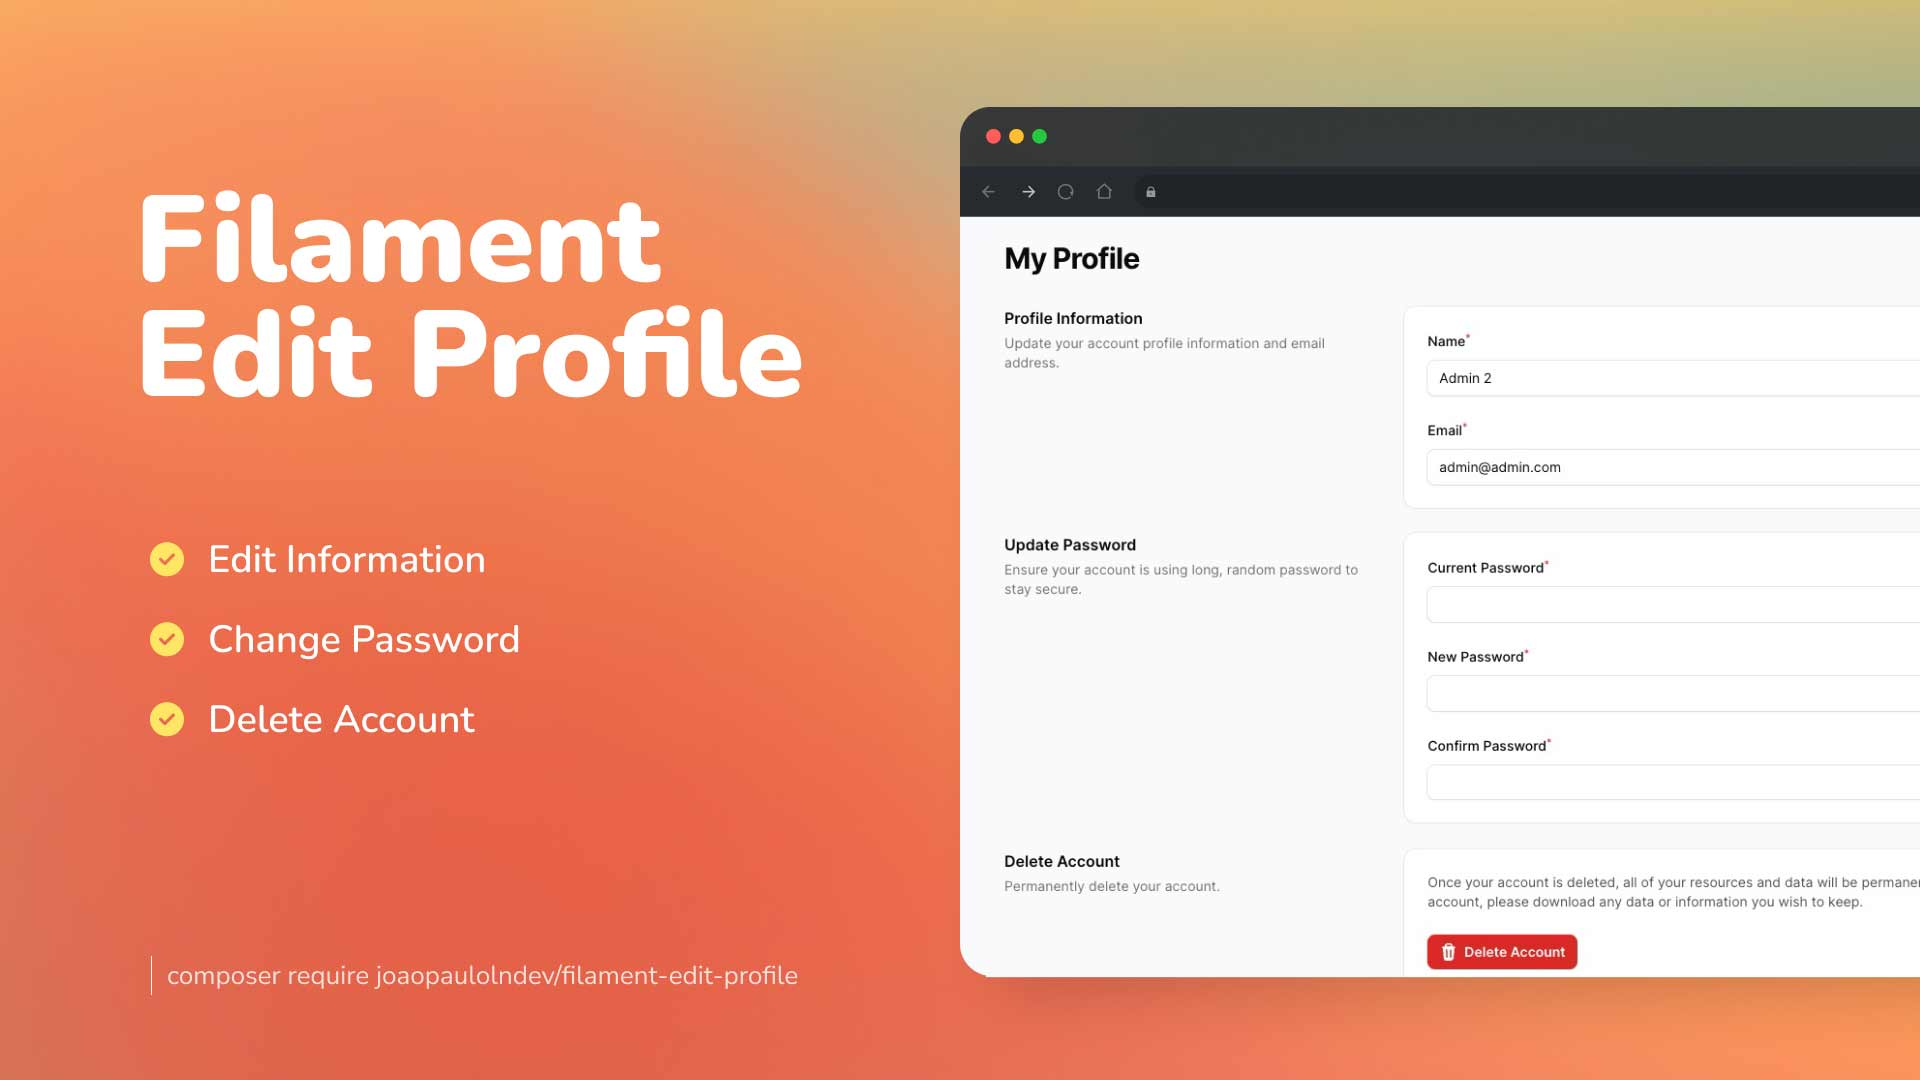
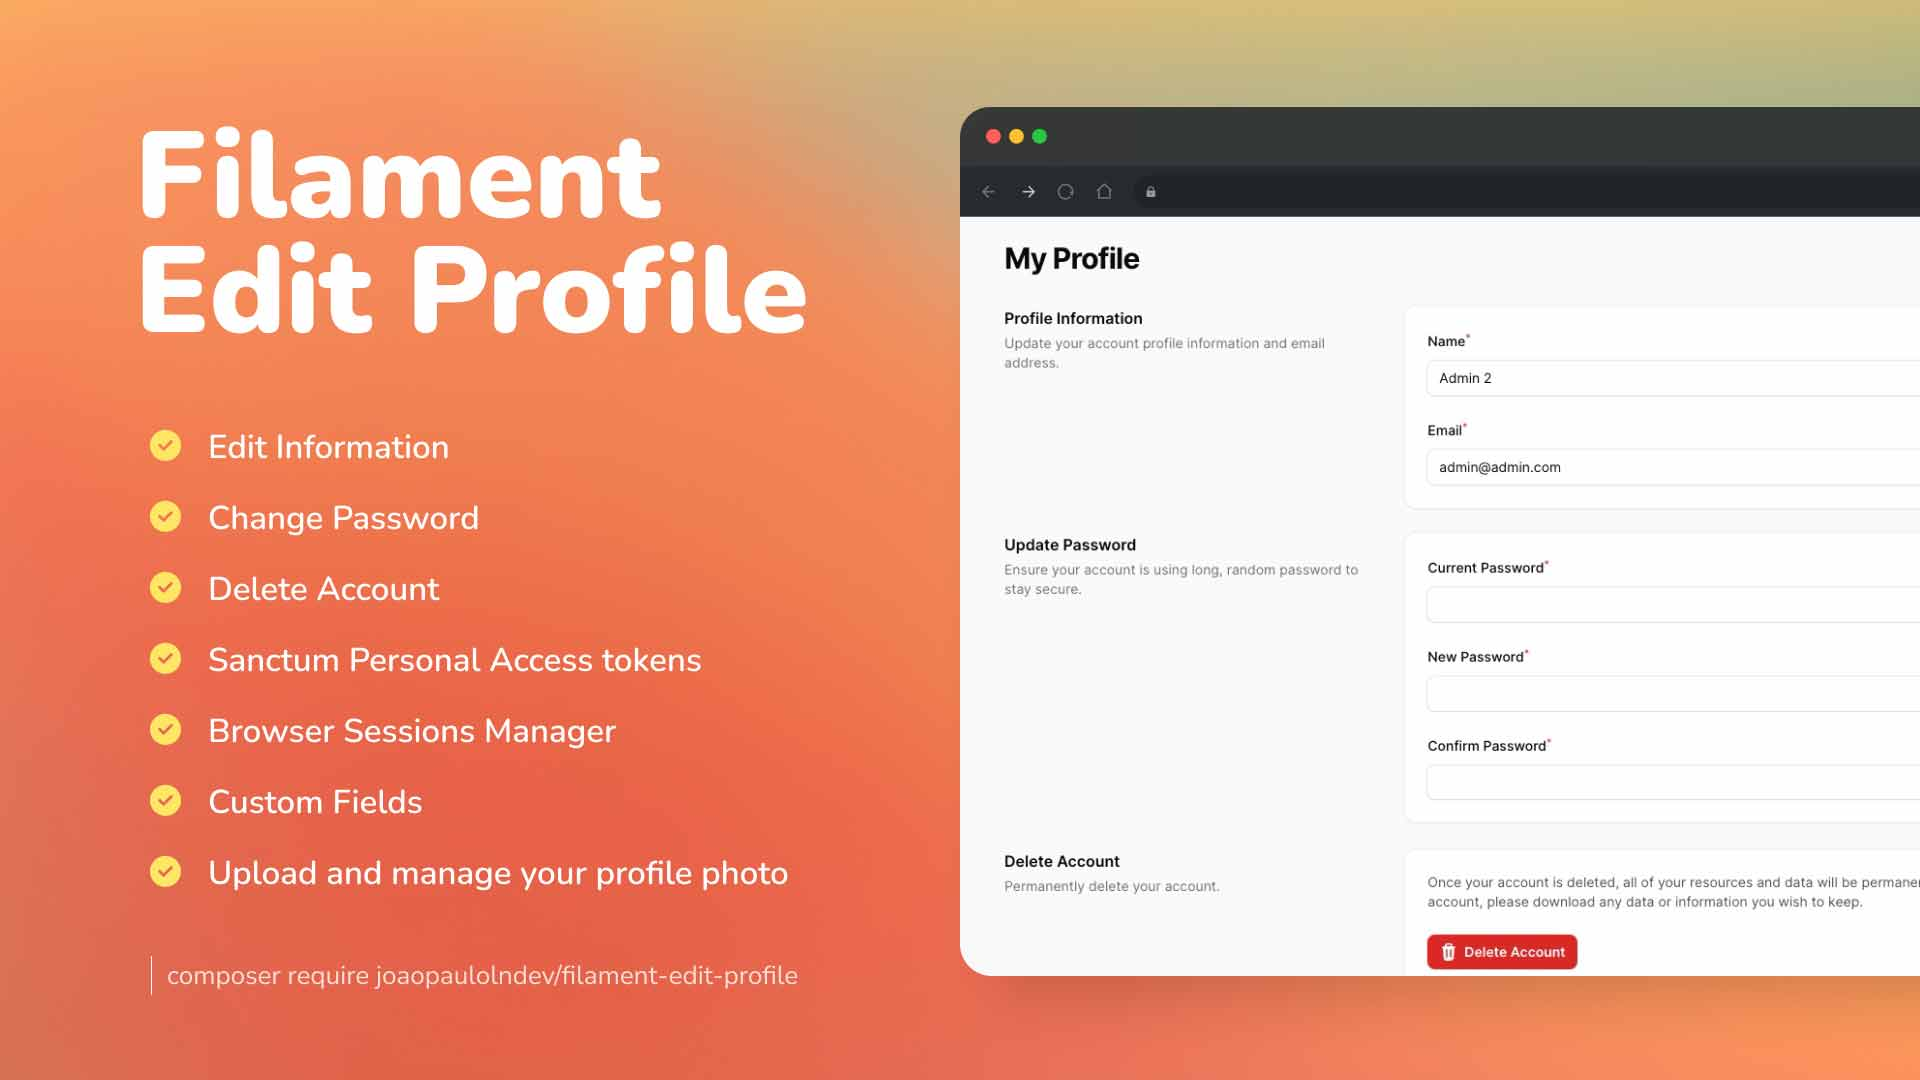
Add new plugin and change cover edit profile

diff --git a/content/plugins/joaopaulolndev-world-clock.md b/content/plugins/joaopaulolndev-world-clock.md
@@ -1,0 +1,14 @@
+---
+name: World Clock
+slug: joaopaulolndev-world-clock
+author_slug: joaopaulolndev
+categories: [widget]
+description: A beautiful filamentphp card widget to display world clocks by timezone.
+discord_url: 
+docs_url: https://raw.githubusercontent.com/joaopaulolndev/filament-world-clock/main/README.md
+github_repository: joaopaulolndev/filament-world-clock
+has_dark_theme: true
+has_translations: true
+versions: [3]
+publish_date: 2024-06-17
+---
